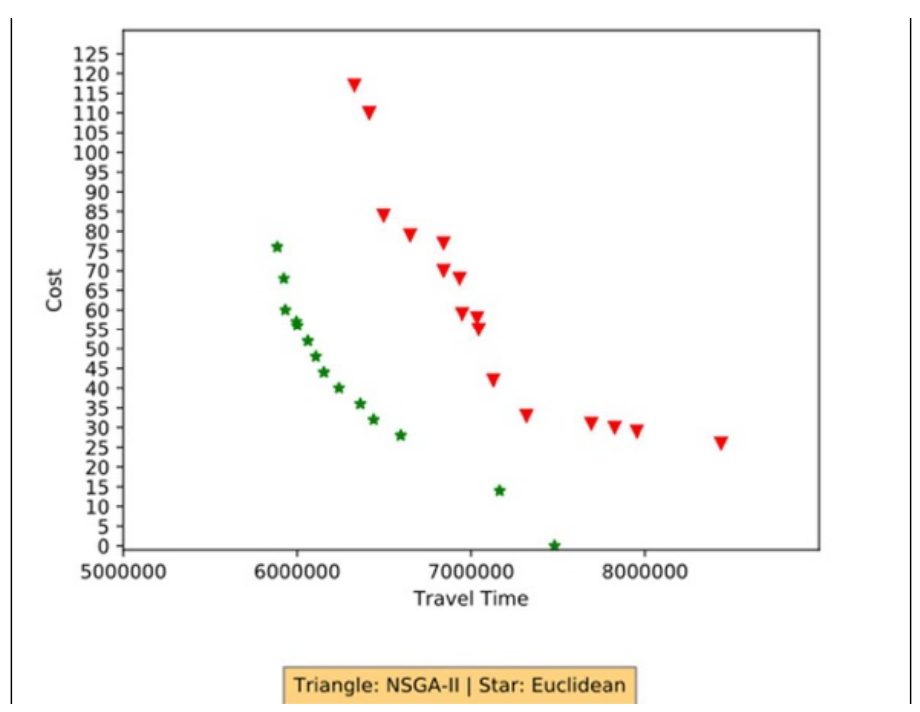
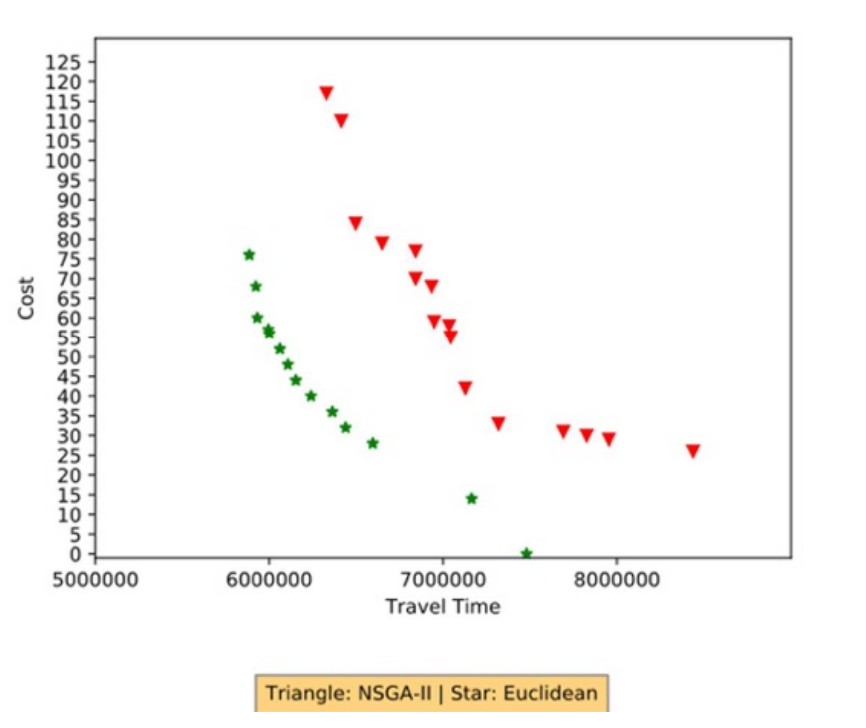
Master's thesis page: Sioux Falls network figure from thesis, cleaner Pareto crop

diff --git a/src/data/projects.ts b/src/data/projects.ts
@@ -433,7 +433,7 @@ export const projects: Project[] = [
         },
       ],
       figures: [
-        { src: mscNetwork, alt: 'Benchmark road network graph with origin and destination nodes', caption: 'One of the benchmark networks, with origin and destination nodes.' },
+        { src: mscNetwork, alt: 'Sioux Falls benchmark network with 24 nodes and 76 numbered road links', caption: 'Sioux Falls benchmark network: 24 nodes and 76 links. Figure from the thesis.' },
         { src: mscPareto, alt: 'Scatter plot of travel time against cost for Pareto solutions from NSGA-II (red triangles) and the WPN approach (green stars) on the Sioux Falls network', caption: 'Sioux Falls network: Pareto solutions from NSGA-II (red) and WPN (green). Lower travel time and cost is better. Figure from the thesis.' },
       ],
       areaTitle: 'Technical Areas',
@@ -441,7 +441,7 @@ export const projects: Project[] = [
     },
     image: {
       src: mscCard,
-      alt: 'Benchmark road network graph from the thesis',
+      alt: 'Part of the Sioux Falls benchmark road network',
       placeholderLabel: 'Project image',
     },
   },
